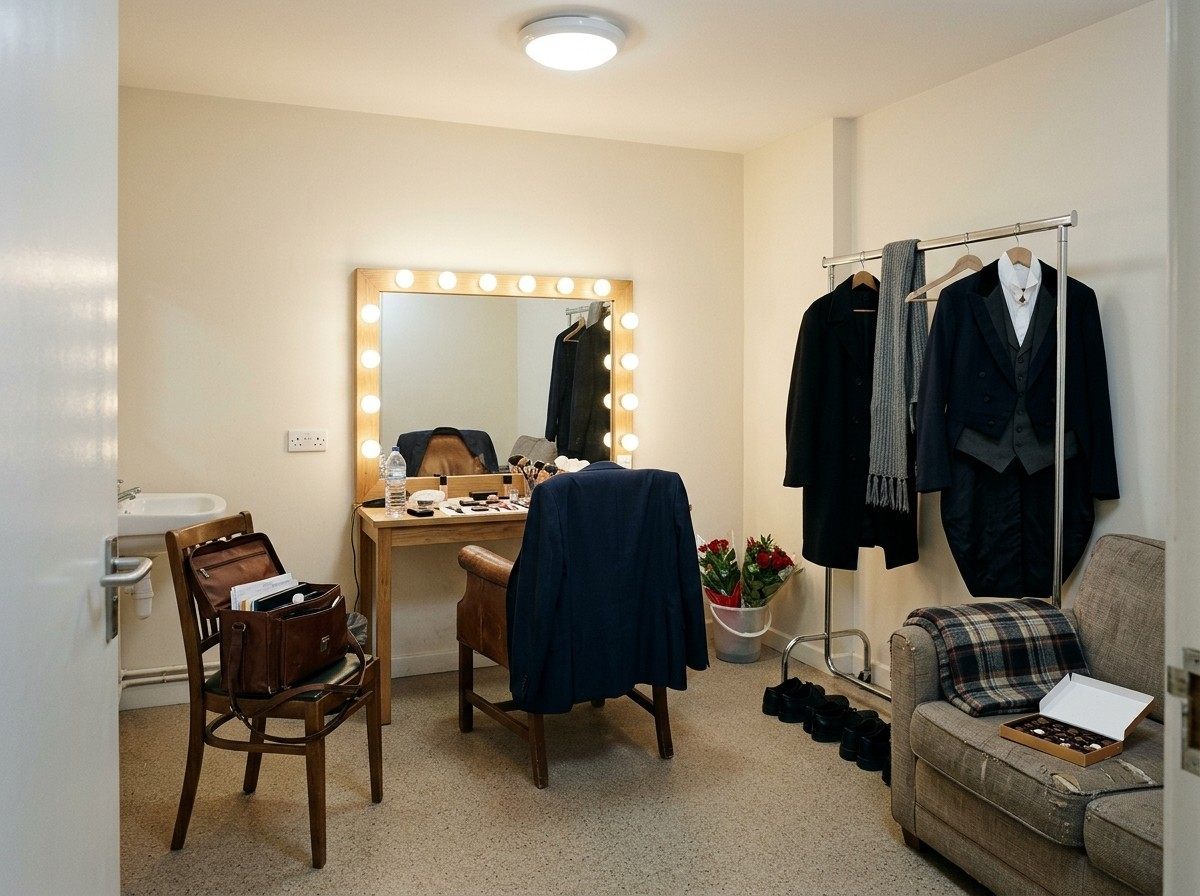
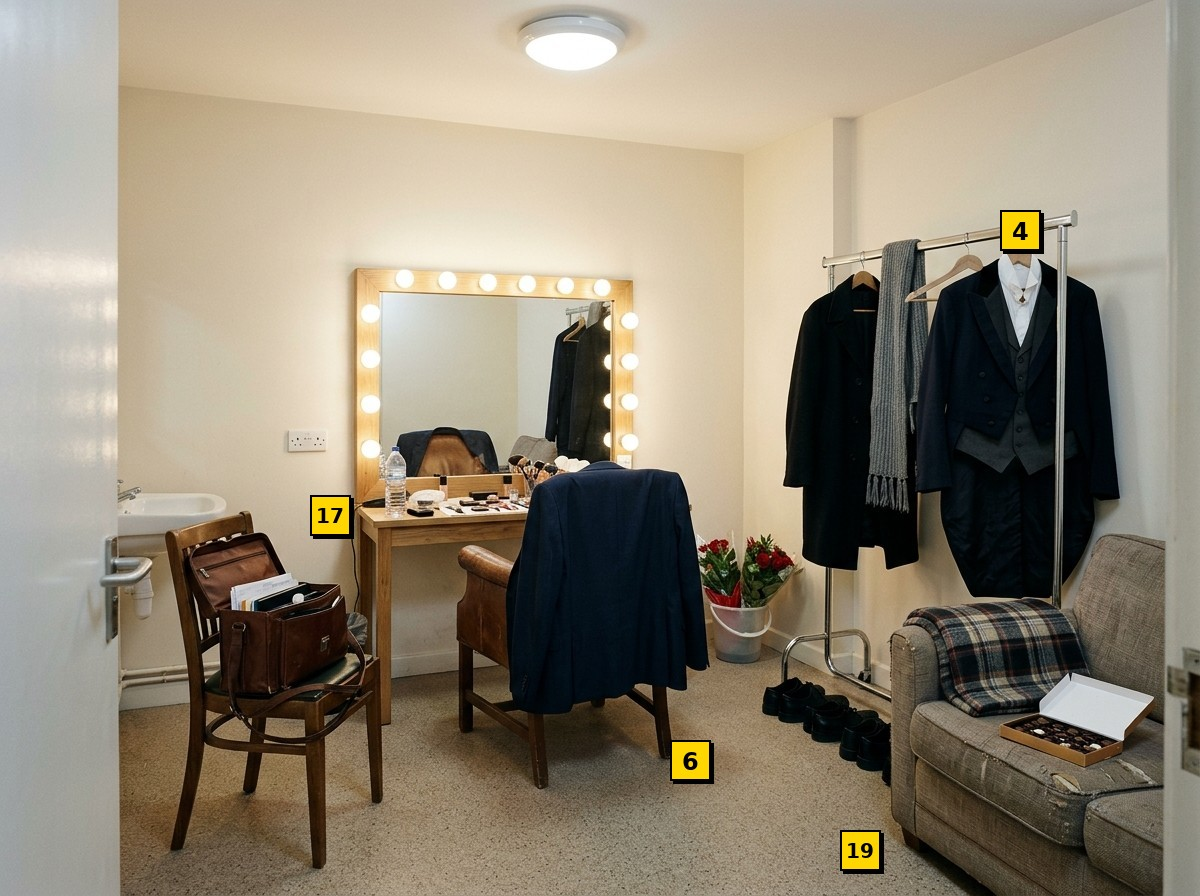
Paper photos 1-10 (general, rack, table with evidence markers), 2-03-01/02 (CCTV timecodes, blurred plate); 1-09 matches photos
Claude-Session: https://claude.ai/code/session_014RPwzncWYF5iJr11hn4d7H

diff --git a/content/paper/1-09.md b/content/paper/1-09.md
@@ -32,13 +32,13 @@ meta:
 | 2 | Шарф шерстяной серый | там же |
 | 3 | Связка ключей (5 шт.) на брелоке в виде театральной маски | правый карман пальто (поз. 1) |
 | 4 | Костюм сценический для 1-го действия: фрак, жилет, сорочка | вешалка-стойка |
-| 5 | Туфли мужские чёрные, повседневные | пол под вешалкой |
+| 5 | Туфли мужские чёрные — 4 пары (повседневные и сценические) | нижняя полка вешалки |
 | 6 | Пиджак мужской тёмно-синий | спинка кресла |
 | 7 | Бумажник кожаный чёрный; в нём денежные средства 3 450 руб., банковские карты — 2 шт., служебный пропуск {{ w.theater.short }} на имя {{ c.voroncov.short('gen') }} | внутренний карман пиджака (поз. 6) |
 | 8 | Часы наручные мужские на кожаном ремешке | гримировальный столик |
 | 9 | Набор грима в металлическом кейсе, кисти, спонжи | там же |
 | 10 | Расчёска | там же |
-| 11 | Бутылка питьевой воды пластиковая, 0,5 л, вскрыта, заполнена примерно на треть | там же |
+| 11 | Бутылка питьевой воды пластиковая, 0,5 л, вскрыта, заполнена примерно на три четверти | там же |
 | 12 | Текст роли «{{ w.play.role_main }}», машинопись, 64 листа, с пометками карандашом | там же |
 | 13 | Зарядное устройство для мобильного телефона с кабелем; включено в розетку, кабель свисает со столика, ни к чему не подключён | розетка у столика |
 | 14 | Наушники беспроводные в зарядном футляре белого цвета | гримировальный столик |

diff --git a/docs/STORY-CHANGES.md b/docs/STORY-CHANGES.md
@@ -448,3 +448,6 @@
 ### Вопрос к сценаристу (медиа, 21.10)
 1. Шот-лист SCENARIO для таблетницы («СБ с S, ВС с риской») расходится с экспертизой 3-06 (риска — в ЧТ, в СР/ПТ/СБ/ВС — «S»). Фото делаем по 3-06 и «Истине» (подменены ВТ, СР, ЧТ; забыта ЧТ) — поправьте шот-лист в SCENARIO.
 2. Упаковка «Анаприлина» на фото кабинета 2-06: есть в PAPER-REQUIREMENTS, нет в тексте 2-06. Запрос S18 в docs/PROMPTS.md её содержит; если деталь не нужна — уберём.
+
+### Под фото гримёрки (21.10)
+- 1-09: туфли — «4 пары (повседневные и сценические), нижняя полка вешалки» (было: одна пара на полу); бутылка воды «заполнена примерно на три четверти» (было: на треть) — так на сгенерированных фото 1-10. Улик не касается.
